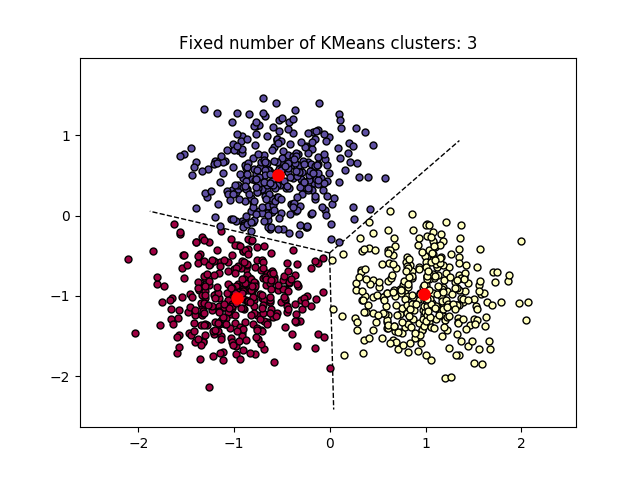
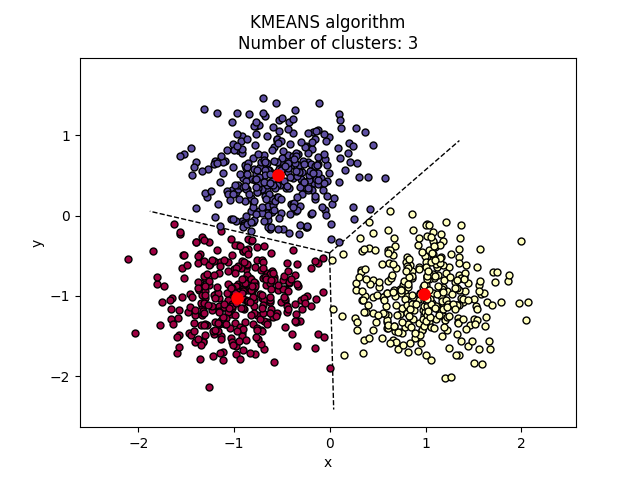
plots, imgs and labels

Changed region(s): [[0.2812, 0.0312, 0.75, 0.125]]

diff --git a/P3/p3_rubiomadrigalcelia.py b/P3/p3_rubiomadrigalcelia.py
@@ -10,6 +10,7 @@ from scipy.spatial import Voronoi, voronoi_plot_2d
 import matplotlib.pyplot as plt
 from sklearn.cluster import DBSCAN
 
+Figure = 1
 
 """ Apartado i) """
 
@@ -23,19 +24,24 @@ X, labels_true = make_blobs(
 
 # #############################################################################
 # Los clasificamos mediante el algoritmo KMeans
-def plot_silhouette(xs, alg):
+def plot_silhouette(param, xs, alg):
+    global Figure
     ss = []
     for x in xs:
         m = alg(x).fit(X)
         silhouette = metrics.silhouette_score(X, m.labels_)
         k = len(set(m.labels_)) - (1 if -1 in m.labels_ else 0)
-        print("Param. = %0.3f" % x, "\tk =", k, "\ts̄ = %0.3f" % silhouette)
+        print(param,"= %0.3f" % x, "\tk =", k, "\ts̄ = %0.3f" % silhouette)
         ss += [silhouette]
+    plt.xlabel(param)
+    plt.ylabel("Silhouette Coefficient s̄")
     plt.plot(xs, ss)
+    plt.savefig("Figure_%d" % Figure)
+    Figure += 1
     plt.show()
 
 
-plot_silhouette(range(2, 4), lambda x: KMeans(n_clusters=x, random_state=0))
+plot_silhouette("k",range(2, 16), lambda x: KMeans(n_clusters=x, random_state=0))
 kmeans = KMeans(n_clusters=3, random_state=0).fit(X)
 print("\nCentros:\n", kmeans.cluster_centers_)
 
@@ -82,9 +88,8 @@ def plot_points(alg, core_samples_mask=None):
             markeredgecolor="k",
             markersize=3,
         )
-
-    n_clusters = len(set(alg.labels_)) - (1 if -1 in alg.labels_ else 0)
-    plt.title("Number of clusters: %d" % n_clusters)
+    plt.xlabel("x")
+    plt.ylabel("y")
 
 
 vor_regions = Voronoi(kmeans.cluster_centers_)
@@ -94,6 +99,9 @@ plot_points(kmeans)
 plt.plot(
     kmeans.cluster_centers_[:, 0], kmeans.cluster_centers_[:, 1], "ro", markersize=8
 )
+plt.title("KMEANS algorithm\nNumber of clusters: %d" % len(kmeans.cluster_centers_))
+plt.savefig("Figure_%d" % Figure)
+Figure += 1
 plt.show()
 
 
@@ -102,7 +110,7 @@ plt.show()
 # #############################################################################
 # Los clasificamos mediante el algoritmo DBSCAN
 
-plot_silhouette(
+plot_silhouette("eps",
     np.arange(0.1, 0.4, 0.02),
     lambda x: DBSCAN(eps=x, min_samples=10, metric="euclidean"),
 )
@@ -110,11 +118,16 @@ db = DBSCAN(eps=0.28, min_samples=10, metric="euclidean").fit(X)
 core_samples_mask = np.zeros_like(db.labels_, dtype=bool)
 core_samples_mask[db.core_sample_indices_] = True
 plot_points(db, core_samples_mask)
+
+n_clusters_ = len(set(db.labels_)) - (1 if -1 in db.labels_ else 0)
+plt.title("DBSCAN+euclidean algorithm\nNumber of clusters: %d" % n_clusters_)
+plt.savefig("Figure_%d" % Figure)
+Figure += 1
 plt.show()
 
 print("-" * 10)
 
-plot_silhouette(
+plot_silhouette("eps",
     np.arange(0.1, 0.4, 0.02),
     lambda x: DBSCAN(eps=x, min_samples=10, metric="manhattan"),
 )
@@ -122,6 +135,11 @@ db = DBSCAN(eps=0.36, min_samples=10, metric="manhattan").fit(X)
 core_samples_mask = np.zeros_like(db.labels_, dtype=bool)
 core_samples_mask[db.core_sample_indices_] = True
 plot_points(db, core_samples_mask)
+
+n_clusters_ = len(set(db.labels_)) - (1 if -1 in db.labels_ else 0)
+plt.title("DBSCAN+manhattan algorithm\nNumber of clusters: %d" % n_clusters_)
+plt.savefig("Figure_%d" % Figure)
+Figure += 1
 plt.show()
 
 print("-" * 10)
@@ -140,4 +158,8 @@ voronoi_plot_2d(vor_regions, show_points=False, show_vertices=False)
 
 plot_points(kmeans)
 plt.plot(problem[:, 0], problem[:, 1], "ro", markersize=8)
+
+plt.title("Class Predictions")
+plt.savefig("Figure_%d" % Figure)
+Figure += 1
 plt.show()
